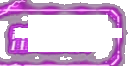
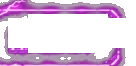
Layer panty filter labels above frames

diff --git a/public/china/catalog/index.html b/public/china/catalog/index.html
@@ -409,16 +409,16 @@
       }
 
       .panty-reference .filter-button {
+        position: relative;
+        display: grid;
+        place-items: center;
+        overflow: visible;
         height: 8.4cqw;
         min-height: 0;
         padding: 0 1.1cqw;
         border: 0;
         border-radius: 0;
-        background-color: #010101;
-        background-image: url("../../assets/china-catalog-ui/filter-frame.png?v=frame-clean-20260628");
-        background-position: center;
-        background-size: 100% 100%;
-        background-repeat: no-repeat;
+        background: transparent;
         color: rgba(255, 255, 255, 0.92);
         font-size: clamp(15px, 3.42cqw, 25.3px);
         font-weight: 700;
@@ -426,13 +426,43 @@
         box-shadow: none;
       }
 
+      .panty-reference .filter-button::before,
+      .panty-reference .filter-button::after {
+        content: "";
+        position: absolute;
+        pointer-events: none;
+      }
+
+      .panty-reference .filter-button::before {
+        inset: 1.6cqw 1.85cqw;
+        z-index: 0;
+        background: rgba(0, 0, 0, 0.68);
+      }
+
+      .panty-reference .filter-button::after {
+        inset: 0;
+        z-index: 1;
+        background: url("../../assets/china-catalog-ui/filter-frame.png?v=frame-clean-20260628") center / 100% 100% no-repeat;
+      }
+
       .panty-reference .filter-button.is-active {
-        background-color: #030003;
-        background-image: url("../../assets/china-catalog-ui/filter-frame-active.png?v=frame-clean-20260628");
         color: #fff;
         text-shadow:
           0 0 0.5cqw #fff,
           0 0 1.2cqw rgba(255, 73, 255, 0.95);
+      }
+
+      .panty-reference .filter-button.is-active::before {
+        background: rgba(4, 0, 8, 0.7);
+      }
+
+      .panty-reference .filter-button.is-active::after {
+        background-image: url("../../assets/china-catalog-ui/filter-frame-active.png?v=frame-clean-20260628");
+      }
+
+      .panty-reference .filter-label {
+        position: relative;
+        z-index: 2;
       }
 
       .panty-reference .search {
@@ -838,8 +868,11 @@
         const button = document.createElement("button");
         button.type = "button";
         button.className = "filter-button";
-        button.textContent = filter;
         button.dataset.filter = filter;
+        const label = document.createElement("span");
+        label.className = "filter-label";
+        label.textContent = filter;
+        button.append(label);
         button.setAttribute("aria-pressed", filter === activeFilter ? "true" : "false");
         if (filter === activeFilter) {
           button.classList.add("is-active");

diff --git a/design-qa.md b/design-qa.md
@@ -100,6 +100,7 @@
 - Replaced the panty page subcategory button CSS-drawn frames with two extracted frame assets from the supplied panty reference: `public/assets/china-catalog-ui/filter-frame.png` and `filter-frame-active.png`. The baked source text was erased from the frame interiors; the labels remain editable HTML text, and all subcategory buttons now share one normal frame style plus one active frame style.
 - Replaced the panty page product-card CSS-drawn border/clip with `public/assets/china-catalog-ui/product-card-frame.png`, a transparent frame overlay extracted from the supplied product-card reference. The product image, description, price, and code remain editable HTML content underneath the overlay; the panty product cards no longer rely on the previous `clip-path` frame that made corners look blacked out.
 - Rebuilt the panty subcategory frame assets as true transparent overlays. The normal/active filter frame PNGs now keep only edge/corner line and glow pixels; button interior black is supplied by CSS background color instead of baked black rectangles, so each filter frame can render fully without internal black-block masking.
+- Reworked the panty subcategory buttons into three layers: translucent black interior (`::before`), clean frame overlay (`::after`), and editable label text above both layers. The active frame asset was regenerated with a narrower edge mask to remove remaining bright source-text fragments, preventing the selected label such as `平角裤` from looking covered on the left side.
 
 **Follow-up Polish**
 - P3: the China page uses modular source slices rather than one full-page background. The slice boundaries are intentionally separate so each category card remains an independent clickable link.